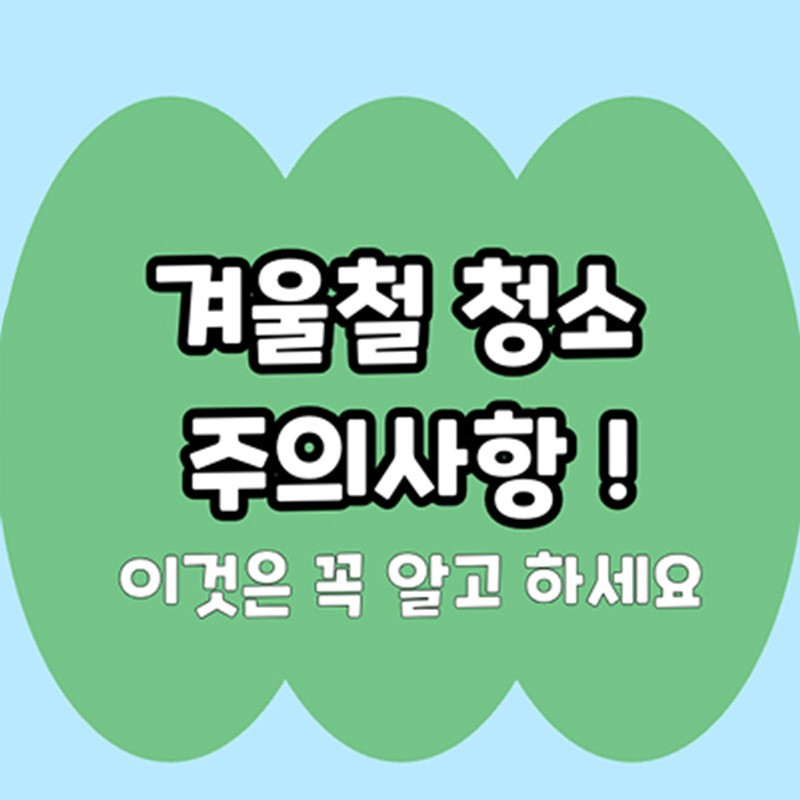
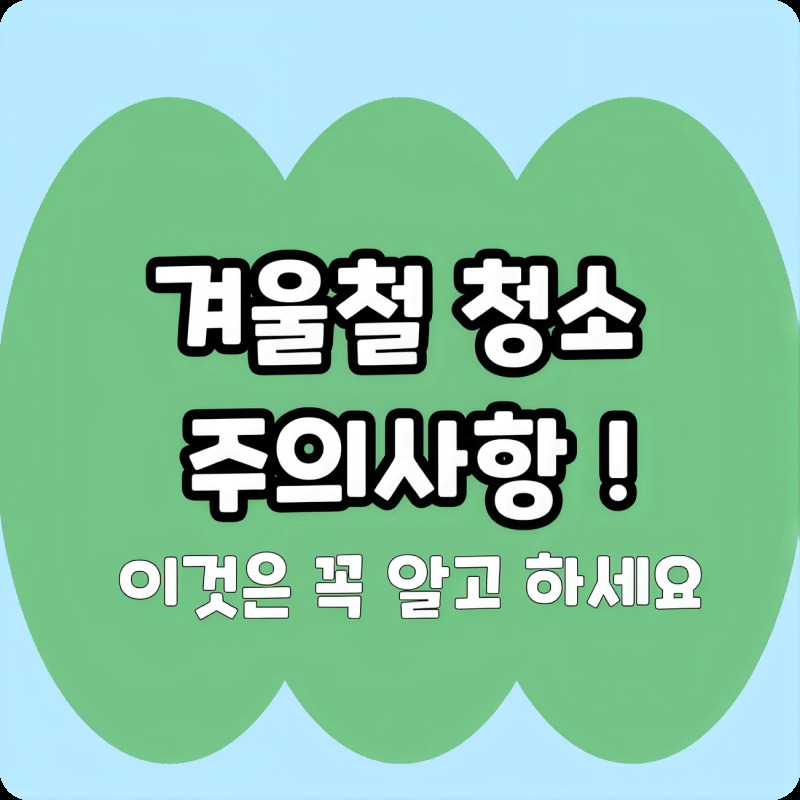
커뮤니티 페이지 작동 구현

diff --git a/sub_page/Community/Information.html b/sub_page/Community/Information.html
@@ -5,7 +5,7 @@
     <link rel="stylesheet" href="../../css/reseat.css"><link rel="stylesheet" href="https://cdn.jsdelivr.net/gh/orioncactus/pretendard/dist/web/static/pretendard.css"><link rel="stylesheet" href="../../css/coom.css"><link rel="stylesheet" href="../../css/header_stayl.css"><link rel="stylesheet" href="../../css/menu.css"><link rel="stylesheet" href="../../css/footer.css"><link rel="stylesheet" href="../../css/gallery_community.css">
 </head>
 
-<body class="community_page">
+<body class="community_page" data-community-page="information">
     <div id="header"></div><div id="menu"></div><div class="sub_visual" role="img" aria-label="커뮤니티 대표 이미지"></div>
     <nav class="subpage_nav subpage_nav_list sub_category" aria-label="커뮤니티 서브메뉴"><a class="subpage_nav_link" href="Notice.html">공지사항</a><a class="subpage_nav_link" href="Schedule.html">작업일정</a><a class="subpage_nav_link" href="Event.html">이벤트</a><a class="subpage_nav_link" href="Information.html" aria-current="page">정보공유</a><a class="subpage_nav_link" href="FAQ.html">자주하는 질문</a><a class="subpage_nav_link" href="Reviews.html">이용후기</a></nav>
     <nav class="breadcrumb" aria-label="현재 페이지 경로"><span class="home"></span><a href="../../index.html">홈</a><span class="arrow left_arrow_2"></span><p>커뮤니티</p><span class="arrow left_arrow_2"></span><p aria-current="page">정보공유</p></nav>
@@ -19,18 +19,18 @@
             </div>
 
             <div class="information_cards">
-                <a class="information_card" href="#"><img src="../../img/mainimgs/Community_Information.jpg" alt="겨울철 청소 주의사항"><h3>겨울철 실내공기유지하기</h3><span class="information_meta"><span>댓글 8</span><time>2025.12.29</time></span></a>
-                <a class="information_card" href="#"><img src="../../img/sub_page/community/info/info_02.png" alt="주방 청소 꿀팁 4가지"><h3>주방 청소 꿀팁 4가지, 이것만 알아도 관리가 쉬워집니다</h3><span class="information_meta"><span>댓글 8</span><time>2025.11.29</time></span></a>
-                <a class="information_card" href="#"><img src="../../img/sub_page/community/info/info_03.png" alt="가습기 청소"><h3>가습기 청소</h3><span class="information_meta"><span>댓글 8</span><time>2025.10.29</time></span></a>
-                <a class="information_card" href="#"><img src="../../img/sub_page/community/info/info_04.png" alt="집먼지 진드기 알레르기 예방법"><h3>집먼지 진드기 알레르기, 원인 예방법 꼼꼼하게 알려드릴게요</h3><span class="information_meta"><span>댓글 8</span><time>2025.09.29</time></span></a>
-                <a class="information_card" href="#"><img src="../../img/sub_page/community/info/info_05.png" alt="먼지 방지 청소 방법"><h3>먼지 방지하는 청소 방법</h3><span class="information_meta"><span>댓글 8</span><time>2025.08.29</time></span></a>
-                <a class="information_card" href="#"><img src="../../img/sub_page/community/info/info_06.png" alt="올바른 환기 방법"><h3>미세먼지 심할 때 환기, 올바른 환기 방법이 있어요!</h3><span class="information_meta"><span>댓글 8</span><time>2025.07.29</time></span></a>
-                <a class="information_card" href="#"><img src="../../img/sub_page/community/info/info_07.png" alt="전자레인지 냄새 제거 방법"><h3>전자레인지 냄새 제거 꿀팁, 이 방법이 가장 확실해요!</h3><span class="information_meta"><span>댓글 8</span><time>2025.06.29</time></span></a>
-                <a class="information_card" href="#"><img src="../../img/sub_page/community/info/info_08.png" alt="새집증후군 예방법"><h3>새집증후군 예방 위한 효과적인 방법 총정리!</h3><span class="information_meta"><span>댓글 8</span><time>2025.05.29</time></span></a>
-                <a class="information_card" href="#"><span class="empty_image">이미지 연결</span><h3>카펫에 음료를 쏟았을 때 바로 해야 할 응급조치</h3><span class="information_meta"><span>댓글 5</span><time>2025.04.29</time></span></a>
-                <a class="information_card" href="#"><span class="empty_image">이미지 연결</span><h3>공장 바닥 기름때가 다시 생기는 이유와 관리 방법</h3><span class="information_meta"><span>댓글 7</span><time>2025.03.29</time></span></a>
-                <a class="information_card" href="#"><span class="empty_image">이미지 연결</span><h3>저수조 청소 전 미리 확인해야 할 사항</h3><span class="information_meta"><span>댓글 4</span><time>2025.02.28</time></span></a>
-                <a class="information_card" href="#"><span class="empty_image">이미지 연결</span><h3>외벽 세척 시기와 오염 상태 확인하는 방법</h3><span class="information_meta"><span>댓글 6</span><time>2025.01.29</time></span></a>
+                <a class="information_card" data-category="생활" href="#"><img src="../../img/mainimgs/Community_Information.jpg" alt="겨울철 청소 주의사항"><span class="information_card_body"><span class="information_card_title"><h3>겨울철 실내공기유지하기</h3><span class="information_badge">생활</span></span><span class="information_meta"><span class="information_comments"><span class="icon speech_bubble" aria-hidden="true"></span>댓글 8</span><time>2025.12.29</time></span></span></a>
+                <a class="information_card" data-category="정리" href="#"><img src="../../img/sub_page/community/info/info_02.webp" alt="주방 청소 꿀팁 4가지"><span class="information_card_body"><span class="information_card_title"><h3>주방 청소 꿀팁 4가지, 이것만 알아도 관리가 쉬워집니다</h3><span class="information_badge">정리</span></span><span class="information_meta"><span class="information_comments"><span class="icon speech_bubble" aria-hidden="true"></span>댓글 8</span><time>2025.11.29</time></span></span></a>
+                <a class="information_card" data-category="청소" href="#"><img src="../../img/sub_page/community/info/info_03.webp" alt="가습기 청소"><span class="information_card_body"><span class="information_card_title"><h3>가습기 청소</h3><span class="information_badge">청소</span></span><span class="information_meta"><span class="information_comments"><span class="icon speech_bubble" aria-hidden="true"></span>댓글 8</span><time>2025.10.29</time></span></span></a>
+                <a class="information_card" data-category="생활" href="#"><img src="../../img/sub_page/community/info/info_04.webp" alt="집먼지 진드기 알레르기 예방법"><span class="information_card_body"><span class="information_card_title"><h3>집먼지 진드기 알레르기, 원인 예방법 꼼꼼하게 알려드릴게요</h3><span class="information_badge">생활</span></span><span class="information_meta"><span class="information_comments"><span class="icon speech_bubble" aria-hidden="true"></span>댓글 8</span><time>2025.09.29</time></span></span></a>
+                <a class="information_card" data-category="청소" href="#"><img src="../../img/sub_page/community/info/info_05.webp" alt="먼지 방지 청소 방법"><span class="information_card_body"><span class="information_card_title"><h3>먼지 방지하는 청소 방법</h3><span class="information_badge">청소</span></span><span class="information_meta"><span class="information_comments"><span class="icon speech_bubble" aria-hidden="true"></span>댓글 8</span><time>2025.08.29</time></span></span></a>
+                <a class="information_card" data-category="생활" href="#"><img src="../../img/sub_page/community/info/info_06.webp" alt="올바른 환기 방법"><span class="information_card_body"><span class="information_card_title"><h3>미세먼지 심할 때 환기, 올바른 환기 방법이 있어요!</h3><span class="information_badge">생활</span></span><span class="information_meta"><span class="information_comments"><span class="icon speech_bubble" aria-hidden="true"></span>댓글 8</span><time>2025.07.29</time></span></span></a>
+                <a class="information_card" data-category="청소" href="#"><img src="../../img/sub_page/community/info/info_07.webp" alt="전자레인지 냄새 제거 방법"><span class="information_card_body"><span class="information_card_title"><h3>전자레인지 냄새 제거 꿀팁, 이 방법이 가장 확실해요!</h3><span class="information_badge">청소</span></span><span class="information_meta"><span class="information_comments"><span class="icon speech_bubble" aria-hidden="true"></span>댓글 8</span><time>2025.06.29</time></span></span></a>
+                <a class="information_card" data-category="청소" href="#"><img src="../../img/sub_page/community/info/info_08.webp" alt="새집증후군 예방법"><span class="information_card_body"><span class="information_card_title"><h3>새집증후군 예방 위한 효과적인 방법 총정리!</h3><span class="information_badge">청소</span></span><span class="information_meta"><span class="information_comments"><span class="icon speech_bubble" aria-hidden="true"></span>댓글 8</span><time>2025.05.29</time></span></span></a>
+                <a class="information_card" data-category="관리" href="#"><span class="empty_image">이미지 연결</span><span class="information_card_body"><span class="information_card_title"><h3>카펫에 음료를 쏟았을 때 바로 해야 할 응급조치</h3><span class="information_badge">관리</span></span><span class="information_meta"><span class="information_comments"><span class="icon speech_bubble" aria-hidden="true"></span>댓글 5</span><time>2025.04.29</time></span></span></a>
+                <a class="information_card" data-category="관리" href="#"><span class="empty_image">이미지 연결</span><span class="information_card_body"><span class="information_card_title"><h3>공장 바닥 기름때가 다시 생기는 이유와 관리 방법</h3><span class="information_badge">관리</span></span><span class="information_meta"><span class="information_comments"><span class="icon speech_bubble" aria-hidden="true"></span>댓글 7</span><time>2025.03.29</time></span></span></a>
+                <a class="information_card" data-category="관리" href="#"><span class="empty_image">이미지 연결</span><span class="information_card_body"><span class="information_card_title"><h3>저수조 청소 전 미리 확인해야 할 사항</h3><span class="information_badge">관리</span></span><span class="information_meta"><span class="information_comments"><span class="icon speech_bubble" aria-hidden="true"></span>댓글 4</span><time>2025.02.28</time></span></span></a>
+                <a class="information_card" data-category="관리" href="#"><span class="empty_image">이미지 연결</span><span class="information_card_body"><span class="information_card_title"><h3>외벽 세척 시기와 오염 상태 확인하는 방법</h3><span class="information_badge">관리</span></span><span class="information_meta"><span class="information_comments"><span class="icon speech_bubble" aria-hidden="true"></span>댓글 6</span><time>2025.01.29</time></span></span></a>
             </div>
 
             <nav class="content_paging" aria-label="정보공유 페이지"><a href="#" aria-label="이전 페이지"><span class="icon arrow left_arrow_2" aria-hidden="true"></span></a><a href="#" aria-current="page">1</a><a href="#">2</a><a href="#" aria-label="다음 페이지"><span class="icon arrow right_arrow_2" aria-hidden="true"></span></a></nav>

diff --git a/js/mobile_menu.js b/js/mobile_menu.js
@@ -1018,3 +1018,229 @@ if (window.matchMedia("(hover: hover) and (pointer: fine)").matches) {
         }
     });
 }
+
+
+/* =========================================================
+   SITE SEARCH
+   헤더와 메인 검색은 같은 검색 목록과 이동 규칙을 사용합니다.
+========================================================= */
+
+(function () {
+
+    "use strict";
+
+    if (window.GreenZoneSearch) {
+        return;
+    }
+
+    const recentSearchKey = "greenZoneRecentSearches";
+    const searchEntries = [];
+
+    function normalizeKeyword(value) {
+        return String(value || "")
+            .toLocaleLowerCase("ko")
+            .replace(/[\s\-_/.,()[\]{}]+/g, "");
+    }
+
+    function addEntry(title, href, keywords, search) {
+        searchEntries.push({
+            title,
+            href,
+            keywords: keywords || [],
+            search: search || ""
+        });
+    }
+
+    function collectMenuEntries(items, parents) {
+        items.forEach(function (item) {
+            const path = parents.concat(item.title);
+
+            if (item.href) {
+                addEntry(item.title, item.href, path);
+            }
+
+            if (item.children) {
+                collectMenuEntries(item.children, path);
+            }
+        });
+    }
+
+    collectMenuEntries(mobileMenuData, []);
+
+    addEntry("홈", "/index.html", ["메인", "메인페이지", "홈페이지"]);
+    addEntry("공장 청소", "/sub_page/Factory_cleane/Factory_man.html", ["공장청소", "공장", "기계설비"]);
+    addEntry("위생관리", "/sub_page/Factory_cleane/Factory_man.html", ["위생관리 용역업", "청소업체"]);
+    addEntry("물탱크 청소", "/sub_page/Water_tank/Water_tank.html", ["저수조 청소", "저수조"]);
+    addEntry("외벽 청소", "/sub_page/Exterior/Commercial.html", ["외벽청소", "외벽 방수", "유리창 청소"]);
+    addEntry("청소 작업 신청", "/user_page/Online_application.html", ["작업문의", "견적", "온라인견적", "방문견적", "청소신청"]);
+
+    [
+        "겨울철 실내공기유지하기",
+        "주방 청소 꿀팁 4가지, 이것만 알아도 관리가 쉬워집니다",
+        "가습기 청소",
+        "집먼지 진드기 알레르기, 원인 예방법 꼼꼼하게 알려드릴게요",
+        "먼지 방지하는 청소 방법",
+        "미세먼지 심할 때 환기, 올바른 환기 방법이 있어요!",
+        "전자레인지 냄새 제거 꿀팁, 이 방법이 가장 확실해요!",
+        "새집증후군 예방 위한 효과적인 방법 총정리!"
+    ].forEach(function (title) {
+        addEntry(title, "/sub_page/Community/Information.html", ["정보공유", "청소정보"], title);
+    });
+
+    function scoreEntry(entry, query) {
+        const keyword = normalizeKeyword(query);
+        const title = normalizeKeyword(entry.title);
+        const fields = entry.keywords.map(normalizeKeyword);
+
+        if (!keyword) return 0;
+        if (title === keyword) return 100;
+        if (title.includes(keyword)) return 80;
+        if (fields.includes(keyword)) return 70;
+        if (fields.some(function (field) { return field.includes(keyword); })) return 50;
+        if (keyword.includes(title)) return 30;
+        return 0;
+    }
+
+    function find(query) {
+        return searchEntries
+            .map(function (entry) {
+                return { entry, score: scoreEntry(entry, query) };
+            })
+            .filter(function (result) {
+                return result.score > 0;
+            })
+            .sort(function (a, b) {
+                return b.score - a.score;
+            })
+            .map(function (result) {
+                return result.entry;
+            });
+    }
+
+    function readRecentSearches() {
+        try {
+            return JSON.parse(window.localStorage.getItem(recentSearchKey) || "[]");
+        } catch (error) {
+            return [];
+        }
+    }
+
+    function saveRecentSearch(query) {
+        const recent = readRecentSearches().filter(function (item) {
+            return normalizeKeyword(item) !== normalizeKeyword(query);
+        });
+
+        recent.unshift(query);
+        window.localStorage.setItem(recentSearchKey, JSON.stringify(recent.slice(0, 4)));
+    }
+
+    function renderRecentSearches() {
+        const list = document.querySelector("#header_search .keyword_section:first-child .keyword_list");
+        const recent = readRecentSearches();
+
+        if (!list || !recent.length) {
+            return;
+        }
+
+        list.replaceChildren();
+
+        recent.forEach(function (query) {
+            const item = document.createElement("li");
+            const button = document.createElement("button");
+            const icon = document.createElement("span");
+
+            button.type = "button";
+            button.className = "keyword_button";
+            icon.className = "icon search_ion keyword_icon";
+            icon.setAttribute("aria-hidden", "true");
+            button.append(icon, document.createTextNode(query));
+            item.appendChild(button);
+            list.appendChild(item);
+        });
+    }
+
+    function showNoResult(input, query) {
+        input.setCustomValidity("'" + query + "'에 해당하는 페이지를 찾지 못했습니다.");
+        input.reportValidity();
+    }
+
+    function go(query, input) {
+        const value = String(query || "").trim();
+        const result = find(value)[0];
+
+        if (!value) {
+            input?.focus();
+            return false;
+        }
+
+        if (!result) {
+            if (input) showNoResult(input, value);
+            return false;
+        }
+
+        saveRecentSearch(value);
+
+        const destination = new URL(
+            window.GreenZonePaths?.resolve(result.href) || result.href,
+            window.location.href
+        );
+
+        if (result.search) {
+            destination.searchParams.set("search", result.search);
+        }
+
+        window.location.href = destination.href;
+        return true;
+    }
+
+    document.addEventListener("submit", function (event) {
+        const form = event.target.closest("#header_search");
+        if (!form) return;
+
+        event.preventDefault();
+        const input = form.querySelector('input[type="search"]');
+        go(input?.value, input);
+    });
+
+    document.addEventListener("click", function (event) {
+        const keywordButton = event.target.closest("#header_search .keyword_button");
+        const mainButton = event.target.closest(".mobile_search button");
+
+        if (event.target.closest(".search_open_btn")) {
+            renderRecentSearches();
+        }
+
+        if (keywordButton) {
+            const input = document.querySelector("#header_search .search_input");
+            const query = keywordButton.textContent.trim();
+            if (input) input.value = query;
+            go(query, input);
+            return;
+        }
+
+        if (mainButton) {
+            const input = mainButton.closest(".mobile_search")?.querySelector('input[type="search"]');
+            go(input?.value, input);
+        }
+    });
+
+    document.addEventListener("keydown", function (event) {
+        const input = event.target.closest('.mobile_search input[type="search"]');
+        if (input && event.key === "Enter") {
+            event.preventDefault();
+            go(input.value, input);
+        }
+    });
+
+    document.addEventListener("input", function (event) {
+        if (event.target.matches('#header_search input[type="search"], .mobile_search input[type="search"]')) {
+            event.target.setCustomValidity("");
+        }
+    });
+
+    window.GreenZoneSearch = {
+        find,
+        go
+    };
+
+})();

diff --git a/js/post_detail.js b/js/post_detail.js
@@ -178,13 +178,13 @@
 
     const informationImages = [
         "img/mainimgs/Community_Information.jpg",
-        "img/sub_page/community/info/info_02.png",
-        "img/sub_page/community/info/info_03.png",
-        "img/sub_page/community/info/info_04.png",
-        "img/sub_page/community/info/info_05.png",
-        "img/sub_page/community/info/info_06.png",
-        "img/sub_page/community/info/info_07.png",
-        "img/sub_page/community/info/info_08.png"
+        "img/sub_page/community/info/info_02.webp",
+        "img/sub_page/community/info/info_03.webp",
+        "img/sub_page/community/info/info_04.webp",
+        "img/sub_page/community/info/info_05.webp",
+        "img/sub_page/community/info/info_06.webp",
+        "img/sub_page/community/info/info_07.webp",
+        "img/sub_page/community/info/info_08.webp"
     ];
 
     const reviewImages = [
@@ -410,7 +410,9 @@
                 const isMobile =
                     window.matchMedia("(max-width: 768px)").matches;
 
-                if (isMobile) {
+                if (isMobile && list.classList.contains("information_cards")) {
+                    perPage = 8;
+                } else if (isMobile) {
                     perPage = 4;
                 } else if (list.classList.contains("gallery_cards")) {
                     perPage = 12;
@@ -514,8 +516,11 @@
 
             function apply() {
                 const keyword = input.value.trim().toLocaleLowerCase("ko");
+                const category = list.dataset.activeCategory || "전체";
                 const matched = items.filter(function (item) {
-                    return !keyword || item.textContent.toLocaleLowerCase("ko").includes(keyword);
+                    const matchesKeyword = !keyword || item.textContent.toLocaleLowerCase("ko").includes(keyword);
+                    const matchesCategory = category === "전체" || item.dataset.category === category;
+                    return matchesKeyword && matchesCategory;
                 });
 
                 if (list.classList.contains("faq_list")) {
@@ -539,6 +544,12 @@
                     input.focus();
                 });
             }
+
+            const requestedKeyword = new URLSearchParams(window.location.search).get("search");
+            if (requestedKeyword && list.classList.contains("information_cards")) {
+                input.value = requestedKeyword;
+                apply();
+            }
         });
     }
 
@@ -548,7 +559,7 @@
         if (!nav || !list) return;
 
         const cards = Array.from(list.querySelectorAll(".information_card"));
-        const categoryMap = ["생활", "정리", "청소", "생활", "청소", "생활", "청소", "관리", "관리", "관리", "관리", "관리"];
+        const searchInput = document.querySelector('.content_search input[type="search"]');
 
         nav.querySelectorAll("a").forEach(function (link) {
             link.addEventListener("click", function (event) {
@@ -556,8 +567,11 @@
                 const category = link.textContent.trim();
                 nav.querySelectorAll("a").forEach(function (item) { item.removeAttribute("aria-current"); });
                 link.setAttribute("aria-current", "page");
-                const matched = cards.filter(function (_, index) {
-                    return category === "전체" || categoryMap[index] === category;
+                list.dataset.activeCategory = category;
+                const keyword = searchInput ? searchInput.value.trim().toLocaleLowerCase("ko") : "";
+                const matched = cards.filter(function (card) {
+                    const matchesKeyword = !keyword || card.textContent.toLocaleLowerCase("ko").includes(keyword);
+                    return matchesKeyword && (category === "전체" || card.dataset.category === category);
                 });
                 list.dispatchEvent(new CustomEvent("list-filter-change", { detail: { items: matched } }));
             });

diff --git a/css/gallery_community.css b/css/gallery_community.css
@@ -235,10 +235,15 @@
 .information_filter a { min-width: 78px; min-height: 46px; display: flex; align-items: center; justify-content: center; border: 1px solid #8e8e8e; border-radius: 10px; color: #555; }
 .information_filter a:hover, .information_filter a[aria-current="page"] { border-color: #009944; background: #009944; color: #fff; }
 
-.information_card { width: calc((100% - 60px) / 4); display: flex; flex-direction: column; gap: 12px; }
+.information_card { width: calc((100% - 60px) / 4); display: flex; flex-direction: column; gap: 14px; border-bottom: 1px solid #f2f2f2; padding-bottom: 18px; }
 .information_card img, .information_card .empty_image { width: 100%; aspect-ratio: 1 / 1; object-fit: cover; border-radius: 15px; }
-.information_card h3 { overflow: hidden; font-size: 17px; line-height: 1.5; text-overflow: ellipsis; white-space: nowrap; }
+.information_card_body { display: flex; flex-direction: column; gap: 12px; }
+.information_card_title { display: flex; align-items: center; justify-content: space-between; gap: 12px; }
+.information_card h3 { min-width: 0; flex: 1 1 auto; overflow: hidden; font-size: 17px; line-height: 1.5; text-overflow: ellipsis; white-space: nowrap; }
+.information_badge { min-width: 60px; min-height: 35px; flex: 0 0 auto; display: flex; align-items: center; justify-content: center; border-radius: 8px; background: #009944; color: #fff; font-size: 13px; }
 .information_meta { display: flex; justify-content: space-between; color: #8e8e8e; font-size: 12px; }
+.information_comments { display: flex; align-items: center; gap: 5px; }
+.information_comments .icon { width: 16px; background-color: currentColor; }
 
 .faq_list { display: flex; flex-direction: column; gap: 20px; }
 .faq_list details { border-bottom: 1px solid #dbdbdb; border-radius: 15px; }
@@ -649,8 +654,15 @@
     .event_card h3 { font-size: 14px; }
     .information_filter { overflow-x: auto; }
     .information_filter a { min-width: 56px; min-height: 32px; border-radius: 5px; font-size: 12px; }
-    .information_card { width: calc((100% - 10px) / 2); }
+    [data-community-page="information"] .content_head { align-items: stretch; gap: 8px; }
+    [data-community-page="information"] .content_search { width: 100%; }
+    .information_cards { gap: 24px 20px; }
+    .information_card { width: calc((100% - 20px) / 2); gap: 8px; padding-bottom: 12px; }
+    .information_card_body { gap: 7px; }
+    .information_card_title { gap: 6px; }
     .information_card h3 { font-size: 13px; }
+    .information_badge { min-width: 40px; min-height: 24px; border-radius: 5px; font-size: 10px; }
+    .information_comments .icon { width: 13px; }
     .faq_list { gap: 10px; }
     .faq_list summary { min-height: 52px; gap: 12px; font-size: 12px; padding: 0 12px; }
     .faq_answer { align-items: stretch; flex-direction: column; gap: 24px; padding: 18px 12px 28px; }
